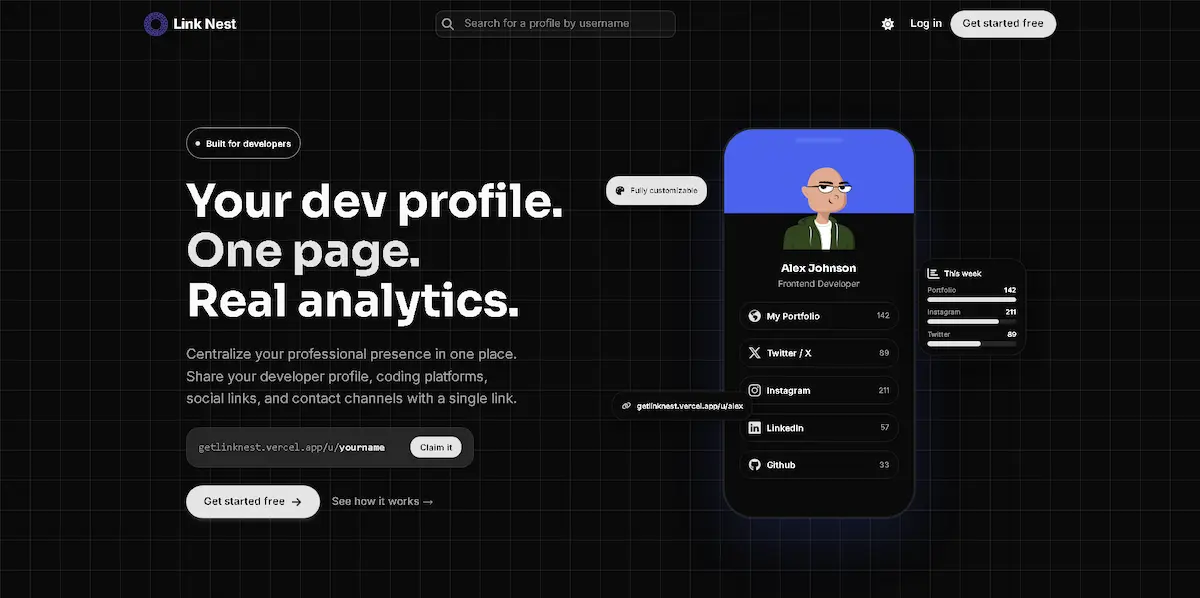
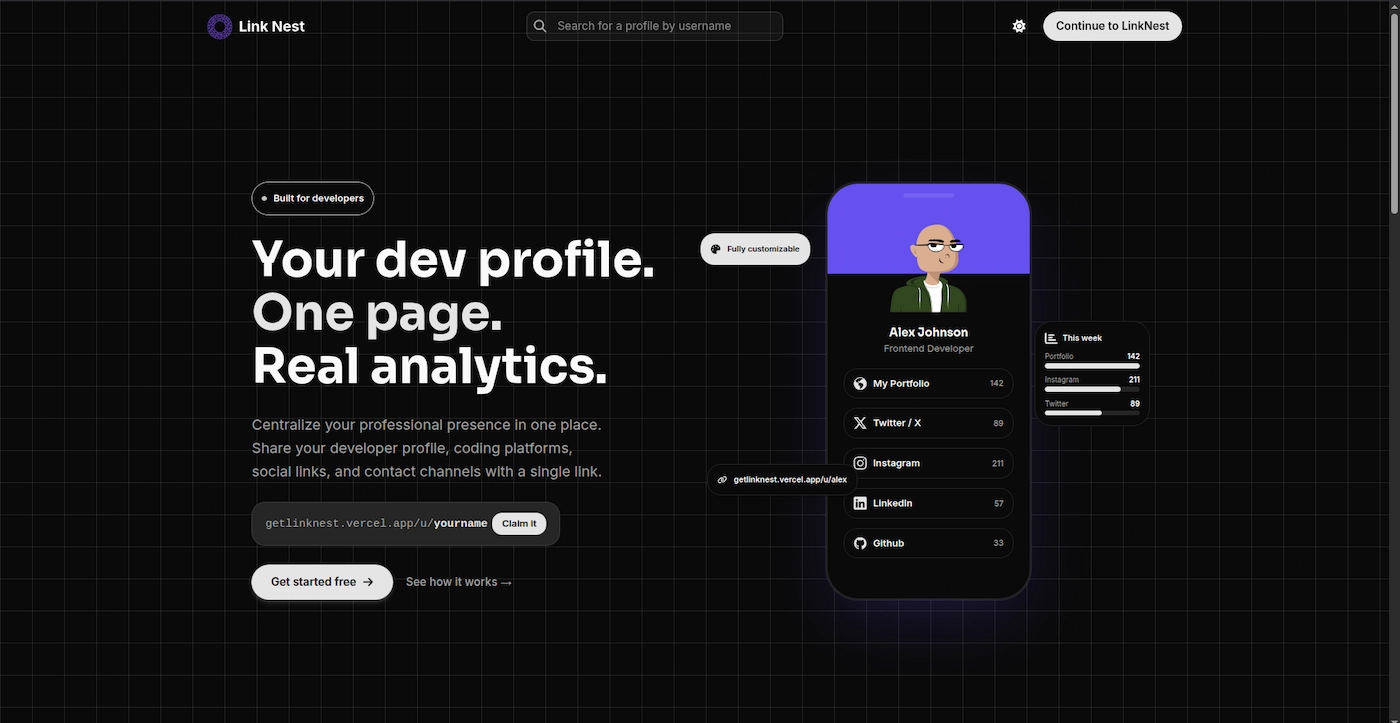
📝 docs: Upload official linknest README repository

diff --git a/README.md b/README.md
@@ -1,75 +1,161 @@
-# React + TypeScript + Vite
+<div align="center">
 
-This template provides a minimal setup to get React working in Vite with HMR and some ESLint rules.
+<img src="./public/og-default.webp" alt="LinkNest banner" width="100%" />
 
-Currently, two official plugins are available:
+# LinkNest
 
-- [@vitejs/plugin-react](https://github.com/vitejs/vite-plugin-react/blob/main/packages/plugin-react) uses [Oxc](https://oxc.rs)
-- [@vitejs/plugin-react-swc](https://github.com/vitejs/vite-plugin-react/blob/main/packages/plugin-react-swc) uses [SWC](https://swc.rs/)
+**The easiest way for developers to share their professional profile, links, and online presence in one place.**
 
-## React Compiler
+[![Live Demo](https://img.shields.io/badge/demo-getlinknest.vercel.app-2ea44f?style=flat-square)](https://getlinknest.vercel.app)
+[![React](https://img.shields.io/badge/React-19-149ECA?style=flat-square&logo=react&logoColor=white)](https://react.dev)
+[![TypeScript](https://img.shields.io/badge/TypeScript-3178C6?style=flat-square&logo=typescript&logoColor=white)](https://www.typescriptlang.org)
+[![Vite](https://img.shields.io/badge/Vite-B73BFE?style=flat-square&logo=vite&logoColor=white)](https://vitejs.dev)
+[![Tailwind CSS](https://img.shields.io/badge/Tailwind_CSS-4-06B6D4?style=flat-square&logo=tailwindcss&logoColor=white)](https://tailwindcss.com)
+[![Firebase](https://img.shields.io/badge/Firebase-FFCA28?style=flat-square&logo=firebase&logoColor=black)](https://firebase.google.com)
+[![License: MIT](https://img.shields.io/badge/License-MIT-yellow.svg?style=flat-square)](./LICENSE)
 
-The React Compiler is enabled on this template. See [this documentation](https://react.dev/learn/react-compiler) for more information.
+[Live Demo](https://getlinknest.vercel.app) · [Report a Bug](https://github.com/eddiedev14/linknest/issues) · [Request a Feature](https://github.com/eddiedev14/linknest/issues)
 
-Note: This will impact Vite dev & build performances.
+</div>
 
-## Expanding the ESLint configuration
+---
 
-If you are developing a production application, we recommend updating the configuration to enable type-aware lint rules:
+## Overview
 
-```js
-export default defineConfig([
-  globalIgnores(['dist']),
-  {
-    files: ['**/*.{ts,tsx}'],
-    extends: [
-      // Other configs...
+**LinkNest** is a link-in-bio platform built specifically for developers. It lets users create a single, customizable public page where they can consolidate their GitHub, LinkedIn, portfolio, socials, and any other relevant link — with a profile that reflects their tech stack and professional status.
 
-      // Remove tseslint.configs.recommended and replace with this
-      tseslint.configs.recommendedTypeChecked,
-      // Alternatively, use this for stricter rules
-      tseslint.configs.strictTypeChecked,
-      // Optionally, add this for stylistic rules
-      tseslint.configs.stylisticTypeChecked,
+Beyond just hosting links, LinkNest gives users visibility into how their page performs: click counts, weekly trends, and per-link engagement, all from a clean, dedicated dashboard.
 
-      // Other configs...
-    ],
-    languageOptions: {
-      parserOptions: {
-        project: ['./tsconfig.node.json', './tsconfig.app.json'],
-        tsconfigRootDir: import.meta.dirname,
-      },
-      // other options...
-    },
-  },
-])
+## Features
+
+- **Authentication** — Email/password sign-up and sign-in, plus Google and GitHub OAuth providers, backed by Firebase Auth.
+- **Password recovery** — Self-service password reset flow with transactional emails sent via Nodemailer.
+- **Customizable profile** — Editable avatar and banner (with preset banners and image uploads via ImageKit), bio, professional status, and tech stack pills.
+- **Link management** — Add, edit, delete, and reorder links via drag-and-drop, with platform-aware validation (each supported platform enforces its expected URL format).
+- **Public profile page** — A shareable, SEO-friendly public page (`/u/:username`) showcasing the user's profile and links.
+- **Analytics dashboard** — Track total clicks, link performance, and weekly trends through interactive charts (clicks, links, and platform breakdowns).
+- **Dynamic sitemap** — Auto-generated `sitemap.xml` served through a Vercel serverless function for SEO.
+- **Responsive design** — Fully responsive UI built with Tailwind CSS and Radix/shadcn primitives.
+
+## Tech Stack
+
+| Category             | Technology                                             |
+| -------------------- | ------------------------------------------------------ |
+| Frontend             | React 19, TypeScript, Vite                             |
+| Styling & UI         | Tailwind CSS 4, Radix UI, shadcn, tailwind-animations  |
+| Routing              | React Router                                           |
+| Forms & Validation   | React Hook Form, Zod                                   |
+| Drag & Drop          | @dnd-kit                                               |
+| Charts               | Recharts                                               |
+| Auth & Database      | Firebase Authentication, Firestore, Firebase Admin SDK |
+| Image Hosting        | ImageKit                                               |
+| Transactional Email  | Nodemailer, React Email                                |
+| Serverless Functions | Vercel Functions (`/api`)                              |
+| Analytics            | Vercel Analytics                                       |
+| Deployment           | Vercel                                                 |
+
+## Project Structure
+
+```text
+linknest/
+├── api/                # Vercel serverless functions (Firebase Admin, ImageKit, mail, SEO)
+├── emails/              # React Email templates
+├── public/               # Static assets (favicon, fonts, images)
+├── src/
+│   ├── features/         # Feature-based modules
+│   │   ├── analytics/     # Charts, stat cards, hooks
+│   │   ├── auth/          # Auth forms, providers, hooks
+│   │   ├── links/         # Link CRUD, drag-and-drop, validation
+│   │   ├── profile/       # Profile, avatar & banner management
+│   │   └── public-page/   # Public-facing profile rendering
+│   ├── firebase/          # Firebase client config & types
+│   ├── pages/             # Route-level pages
+│   ├── router/            # App routing & route guards
+│   └── shared/             # Shared components, data, and utilities
+└── vercel.json            # Vercel rewrites config
 ```
 
-You can also install [eslint-plugin-react-x](https://github.com/Rel1cx/eslint-react/tree/main/packages/plugins/eslint-plugin-react-x) and [eslint-plugin-react-dom](https://github.com/Rel1cx/eslint-react/tree/main/packages/plugins/eslint-plugin-react-dom) for React-specific lint rules:
+## Getting Started
 
-```js
-// eslint.config.js
-import reactX from 'eslint-plugin-react-x'
-import reactDom from 'eslint-plugin-react-dom'
+### Prerequisites
 
-export default defineConfig([
-  globalIgnores(['dist']),
-  {
-    files: ['**/*.{ts,tsx}'],
-    extends: [
-      // Other configs...
-      // Enable lint rules for React
-      reactX.configs['recommended-typescript'],
-      // Enable lint rules for React DOM
-      reactDom.configs.recommended,
-    ],
-    languageOptions: {
-      parserOptions: {
-        project: ['./tsconfig.node.json', './tsconfig.app.json'],
-        tsconfigRootDir: import.meta.dirname,
-      },
-      // other options...
-    },
-  },
-])
+- [Node.js](https://nodejs.org) or [Bun](https://bun.sh)
+- A [Firebase](https://firebase.google.com) project (Auth + Firestore)
+- An [ImageKit](https://imagekit.io) account
+- A Gmail account with an [App Password](https://support.google.com/accounts/answer/185833) for transactional emails
+
+### Installation
+
+```bash
+git clone https://github.com/eddiedev14/linknest.git
+cd linknest
+npm install
 ```
+
+### Environment Variables
+
+Create a `.env` file in the project root with the following variables:
+
+```env
+APP_URL=
+
+# FIREBASE
+VITE_FIREBASE_API_KEY=
+VITE_FIREBASE_AUTH_DOMAIN=
+VITE_FIREBASE_PROJECT_ID=
+VITE_FIREBASE_STORAGE_BUCKET=
+VITE_FIREBASE_MESSAGING_SENDER_ID=
+VITE_FIREBASE_APP_ID=
+
+# IMAGEKIT
+VITE_IMAGEKIT_PUBLIC_KEY=
+VITE_IMAGEKIT_URL_ENDPOINT=
+IMAGEKIT_PRIVATE_KEY=
+IMAGEKIT_PUBLIC_KEY=
+IMAGEKIT_URL_ENDPOINT=
+
+# VERCEL VARIABLES
+FIREBASE_PROJECT_ID=
+FIREBASE_CLIENT_EMAIL=
+FIREBASE_PRIVATE_KEY=
+
+# NODEMAILER
+GMAIL_USER=
+GMAIL_APP_PASSWORD=
+```
+
+### Run Locally
+
+```bash
+vercel dev
+```
+
+The app will be available at `http://localhost:3000`.
+
+### Other Scripts
+
+```bash
+npm run build      # Type-check and build for production
+npm run preview    # Preview the production build locally
+npm run lint        # Run ESLint
+npm run email:dev  # Preview email templates with react-email
+```
+
+## Project Goals
+
+- Provide developers with a purpose-built, no-friction alternative to generic link-in-bio tools.
+- Apply a feature-based, scalable frontend architecture with React and TypeScript.
+- Implement secure, multi-provider authentication with Firebase.
+- Give users actionable insight into their profile performance through analytics.
+- Continuously optimize Core Web Vitals (LCP, INP, CLS) and bundle size, as tracked in [`CHANGELOG-perf.md`](./CHANGELOG-perf.md).
+
+## License
+
+This project is licensed under the [MIT License](./LICENSE).
+
+---
+
+<p align="center">
+  Made with ♥ love by <strong>Eddie Santiago Delgado Campo</strong><br />
+  <a href="https://github.com/eddiedev14">@eddiedev14</a>
+</p>
